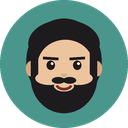
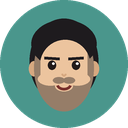
Keep every debt until it is paid; redraw three faces
Debts between two flatmates were netted against each other, so a debtor
who then bought something big saw their debt disappear. Each debt now
stands on its own, one per direction, until a confirmed transfer pays
it, even when two flatmates owe each other the same amount.

Avatars: Азамат's face is smaller and higher so the long beard ends
inside the disc; Аслан has stubble clipped to a narrower face; Мухаммад's
beard is a little shorter.

Claude-Session: https://claude.ai/code/session_01VVyC4KaHFkdZjDhihxHS3w

diff --git a/test/shared_budget_test.dart b/test/shared_budget_test.dart
@@ -65,15 +65,23 @@ void main() {
       expect(pool.settlements.every((s) => s.amount == 2000), isTrue);
     });
 
-    test('two buyers owe each other a quarter, netted to one transfer', () {
+    test('two buyers owe each other a quarter, both debts kept', () {
       final pool = sharedPool([buy('Азамат', 4000), buy('Аслан', 2000)]);
       Settlement between(String from, String to) =>
           pool.settlements.singleWhere((s) => s.from == from && s.to == to);
-      // Аслан owes Азамат 1 000 and is owed 500 back: 500 in all.
-      expect(between('Аслан', 'Азамат').amount, 500);
+      expect(between('Аслан', 'Азамат').amount, 1000);
+      expect(between('Азамат', 'Аслан').amount, 500);
       expect(between('Мухаммад', 'Азамат').amount, 1000);
       expect(between('Мухаммад', 'Аслан').amount, 500);
-      expect(pool.settlements.any((s) => s.from == 'Азамат'), isFalse);
+    });
+
+    test('a debtor buying something big does not wipe their debt', () {
+      final pool = sharedPool([buy('Азамат', 8000), buy('Аслан', 8000)]);
+      Settlement between(String from, String to) =>
+          pool.settlements.singleWhere((s) => s.from == from && s.to == to);
+      // Equal purchases: the two still owe each other until both pay.
+      expect(between('Аслан', 'Азамат').amount, 2000);
+      expect(between('Азамат', 'Аслан').amount, 2000);
     });
 
     test('the personal part of a receipt is not split', () {
@@ -114,14 +122,16 @@ void main() {
       expect(pool.settlements.any((s) => s.from == 'Аслан'), isTrue);
     });
 
-    test('everyone paying their quarter leaves nothing to settle', () {
+    test('equal purchases still leave every debt to be paid back', () {
       final pool = sharedPool([
-        for (final name in kRoommates) buy(name, 3000),
+        for (final name in kRoommates) buy(name, 4000),
       ]);
-      expect(pool.isSettled, isTrue);
+      // Balances are even, but nobody's debt cancels anybody else's.
       for (final p in pool.people) {
         expect(p.balance, 0);
       }
+      expect(pool.settlements.length, 12);
+      expect(pool.settlements.every((s) => s.amount == 1000), isTrue);
     });
 
     test('balances always add up to zero', () {
@@ -226,11 +236,16 @@ void main() {
       );
     });
 
-    test('purchases that even out by themselves close it too', () {
-      expect(
-        periodIsClosed([for (final name in kRoommates) buy(name, 3000)]),
-        isTrue,
-      );
+    test('even purchases close the period only once every debt is paid', () {
+      final open = [for (final name in kRoommates) buy(name, 4000)];
+      expect(periodIsClosed(open), isFalse);
+      final paid = [
+        ...open,
+        for (final from in kRoommates)
+          for (final to in kRoommates)
+            if (from != to) paidBack(from, to, 1000),
+      ];
+      expect(periodIsClosed(paid), isTrue);
     });
 
     test('history groups records by the moment their period closed', () {

diff --git a/lib/models/shared_split.dart b/lib/models/shared_split.dart
@@ -52,8 +52,8 @@ class SharedPool {
   /// Everything bought for the flat, personal parts left out.
   final double sharedTotal;
 
-  /// What each pair of flatmates owes the other once their debts to each
-  /// other are netted: at most one transfer per pair.
+  /// Every debt still open, one per direction between two flatmates: a
+  /// debt is never cancelled out by one running the other way.
   final List<Settlement> settlements;
 
   const SharedPool({
@@ -77,7 +77,7 @@ SharedPool sharedPool(List<Expense> expenses) {
   final paid = {for (final name in kRoommates) name: 0.0};
   final sent = {for (final name in kRoommates) name: 0.0};
   final fined = {for (final name in kRoommates) name: 0.0};
-  // owes[a][b]: what a owes b, before netting against what b owes a.
+  // owes[a][b]: what a still owes b. Never netted against owes[b][a].
   final owes = {
     for (final a in kRoommates) a: {for (final b in kRoommates) b: 0.0},
   };
@@ -144,21 +144,20 @@ SharedPool sharedPool(List<Expense> expenses) {
   );
 }
 
-/// Nets each pair's debts against each other: if Аслан owes Азамат 1 000
-/// and Азамат owes Аслан 500, that is one transfer of 500 from Аслан.
-/// Pairs closer than [kSettledThreshold] are square.
+/// Every debt one flatmate still owes another, each on its own.
+///
+/// Debts are deliberately not netted: if Аслан owes Азамат 2 000 and then
+/// Азамат comes to owe Аслан 2 000, both stay until each is paid and
+/// confirmed. Netting them made a debt vanish the moment the debtor bought
+/// something big, which is not how the flat settles up.
 List<Settlement> _settle(Map<String, Map<String, double>> owes) {
   final result = <Settlement>[];
-  for (var i = 0; i < kRoommates.length; i++) {
-    for (var j = i + 1; j < kRoommates.length; j++) {
-      final a = kRoommates[i];
-      final b = kRoommates[j];
-      final net = owes[a]![b]! - owes[b]![a]!;
-      final amount = net.abs().roundToDouble();
+  for (final from in kRoommates) {
+    for (final to in kRoommates) {
+      if (from == to) continue;
+      final amount = owes[from]![to]!.roundToDouble();
       if (amount < kSettledThreshold) continue;
-      result.add(net > 0
-          ? Settlement(from: a, to: b, amount: amount)
-          : Settlement(from: b, to: a, amount: amount));
+      result.add(Settlement(from: from, to: to, amount: amount));
     }
   }
   return result;

diff --git a/tool/generate_avatars.py b/tool/generate_avatars.py
@@ -19,7 +19,7 @@ Requires Pillow.
 import argparse
 import os
 
-from PIL import Image, ImageDraw
+from PIL import Image, ImageChops, ImageDraw
 
 ROOT = os.path.dirname(os.path.dirname(os.path.abspath(__file__)))
 SIZE = 128
@@ -36,23 +36,29 @@ FRAME = (28, 28, 36, 255)
 CHEEK = (236, 140, 130, 90)
 
 PEOPLE = [
-    # file, background, hair, face width, beard, glasses
-    ('azamat', (196, 160, 92, 255), BLACK_HAIR, 1.0, 'long', False),
-    ('aslan', (74, 150, 140, 255), BLACK_HAIR, 0.86, 'short', False),
-    ('muhammad', (132, 102, 176, 255), BROWN_HAIR, 1.0, 'medium', True),
-    ('imran', (78, 128, 200, 255), BLACK_HAIR, 0.96, None, True),
+    # file, background, hair, face width, beard, glasses, face size, centre
+    # The long beard needs the face smaller and higher to end inside the
+    # disc rather than run off its edge.
+    ('azamat', (196, 160, 92, 255), BLACK_HAIR, 1.0, 'long', False, 0.86, 0.44),
+    ('aslan', (74, 150, 140, 255), BLACK_HAIR, 0.78, 'stubble', False, 1.0, 0.53),
+    ('muhammad', (132, 102, 176, 255), BROWN_HAIR, 1.0, 'medium', True, 1.0, 0.52),
+    ('imran', (78, 128, 200, 255), BLACK_HAIR, 0.96, None, True, 1.0, 0.53),
 ]
+
+# How much of the hair colour shows through each beard. Stubble is the same
+# shape as a beard, only short and thin, so it is drawn see-through.
+BEARD_OPACITY = {'long': 1.0, 'medium': 1.0, 'stubble': 0.42}
 
 
 def ellipse(draw, cx, cy, rx, ry, **kw):
     draw.ellipse((cx - rx, cy - ry, cx + rx, cy + ry), **kw)
 
 
-def face(background, hair, width, beard, glasses):
+def face(background, hair, width, beard, glasses, size, centre):
     image = Image.new('RGBA', (S, S), (0, 0, 0, 0))
     draw = ImageDraw.Draw(image)
-    cx, cy = S / 2, S * 0.53
-    rx, ry = S * 0.30 * width, S * 0.34
+    cx, cy = S / 2, S * centre
+    rx, ry = S * 0.30 * width * size, S * 0.34 * size
 
     # Hair behind the head, then the face over it.
     ellipse(draw, cx, cy - ry * 0.15, rx + S * 0.035, ry * 0.98, fill=hair)
@@ -72,28 +78,41 @@ def face(background, hair, width, beard, glasses):
 
     if beard:
         top, depth = {
-            'long': (0.16, ry + S * 0.24),
-            'medium': (0.18, ry + S * 0.07),
-            'short': (0.24, ry * 0.80),
+            'long': (0.16, ry + S * 0.16),
+            'medium': (0.18, ry + S * 0.035),
+            'stubble': (0.26, ry * 0.76),
         }[beard]
         by = cy + ry * top
-        draw.chord((cx - rx, by - depth, cx + rx, by + depth), 0, 180, fill=hair)
+        layer = Image.new('RGBA', (S, S), (0, 0, 0, 0))
+        ld = ImageDraw.Draw(layer)
+        clear = (0, 0, 0, 0)
+        ld.chord((cx - rx, by - depth, cx + rx, by + depth), 0, 180, fill=hair)
         # Sideburns joining beard to hair.
         for side in (-1, 1):
             x0 = cx + side * rx
-            x1 = cx + side * (rx - S * 0.055)
-            draw.polygon([(x0, cy - ry * 0.35), (x1, cy - ry * 0.35),
-                          (x1, by + S * 0.02), (x0, by + S * 0.02)], fill=hair)
-        # Cheeks over the beard's top edge, so it starts in a curve along
-        # the cheekbones instead of a straight line like a mask.
+            x1 = cx + side * (rx - S * 0.05)
+            ld.polygon([(x0, cy - ry * 0.35), (x1, cy - ry * 0.35),
+                        (x1, by + S * 0.02), (x0, by + S * 0.02)], fill=hair)
+        # Cheeks cut out of the beard's top edge, so it starts in a curve
+        # along the cheekbones instead of a straight line like a mask.
         for side in (-1, 1):
-            ellipse(draw, cx + side * rx * 0.45, by, rx * 0.42, ry * 0.15,
-                    fill=SKIN)
+            ellipse(ld, cx + side * rx * 0.45, by, rx * 0.42, ry * 0.15,
+                    fill=clear)
         # A clear patch round the mouth, then the moustache over it.
-        ellipse(draw, cx, cy + ry * 0.42, rx * 0.30, ry * 0.12, fill=SKIN)
+        ellipse(ld, cx, cy + ry * 0.42, rx * 0.30, ry * 0.12, fill=clear)
         for side in (-1, 1):
-            ellipse(draw, cx + side * rx * 0.17, cy + ry * 0.29,
+            ellipse(ld, cx + side * rx * 0.17, cy + ry * 0.29,
                     rx * 0.20, ry * 0.075, fill=hair)
+        # Keep the face's own outline: nothing of the beard outside the
+        # jaw except what hangs below the chin.
+        opacity = BEARD_OPACITY[beard]
+        if opacity < 1:
+            # Stubble grows on the face, never past it: clip to the jaw.
+            jaw = Image.new('L', (S, S), 0)
+            ellipse(ImageDraw.Draw(jaw), cx, cy, rx, ry, fill=255)
+            alpha = layer.getchannel('A').point(lambda a: int(a * opacity))
+            layer.putalpha(ImageChops.multiply(alpha, jaw))
+        image.alpha_composite(layer)
     else:
         cheeks = Image.new('RGBA', (S, S), (0, 0, 0, 0))
         cheek_draw = ImageDraw.Draw(cheeks)
